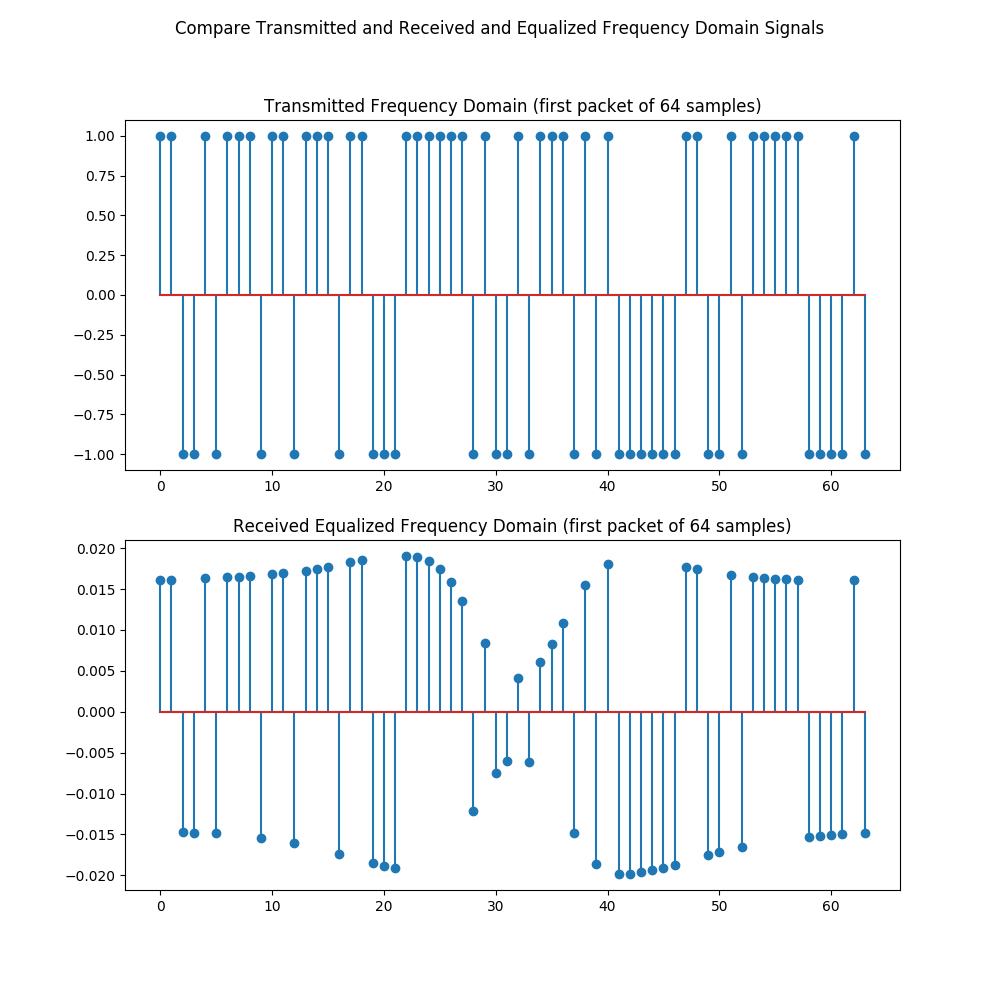
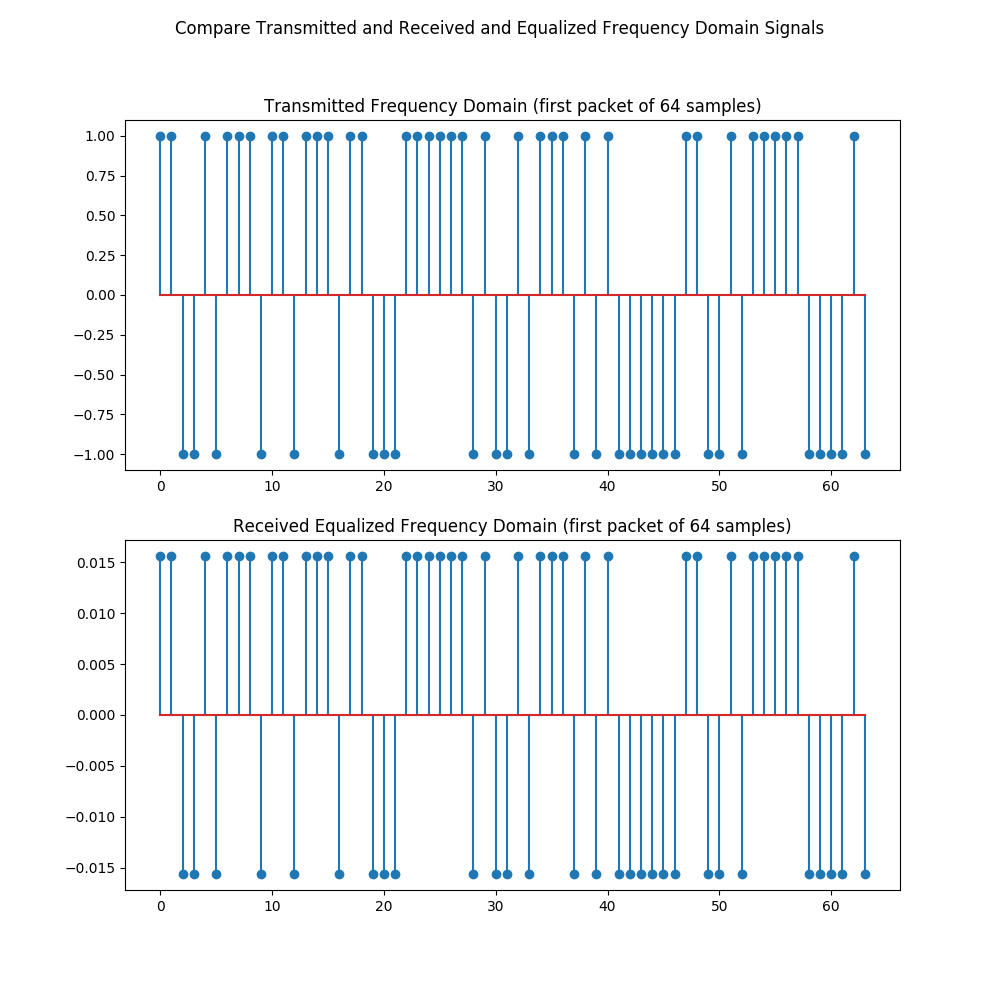
Make old parts of lab work with library modifications

diff --git a/ofdm_hardware_correct.py b/ofdm_hardware_correct.py
@@ -45,6 +45,8 @@ parser.add_argument('--tx_npz_path', type=str, default='tx_arrays.npz',
         + 'signal.')
 parser.add_argument('--make_plots', type=bool, default=False,
         help='Generate and display plots.')
+parser.add_argument('--qpsk', type=bool, default=False,
+        help='Decode a qpsk signal')
 
 FLAGS, unparsed = parser.parse_known_args()
 
@@ -97,10 +99,10 @@ header_time_rx = signal_time_rx[channel_est_start:channel_est_end]
 header_freq_rx = ofdm.convert_time_to_frequency(ofdm.NUM_SAMPLES_PER_PACKET, ofdm.NUM_SAMPLES_CYCLIC_PREFIX, header_time_rx)
 
 H = ofdm.estimate_channel(header_freq, header_freq_rx)
-header_eq = ofdm.equalize_frequency(H, header_freq_rx, est_phase=True)
+header_eq = ofdm.equalize_frequency(H, header_freq_rx, qpsk=FLAGS.qpsk, est_phase=True)
 
 # See what the bit-error rate is for the decoded known header.
-print((ofdm.decode_signal_freq(header_eq) == header_freq).mean())
+print((ofdm.decode_signal_freq(header_eq, qpsk=FLAGS.qpsk) == header_freq).mean())
 
 # Convert from time to frequency domain.
 data_time_rx = signal_time_rx[channel_est_end:]
@@ -123,7 +125,7 @@ if FLAGS.make_plots:
     plt.show()
 
 # Correct for the channel and the phase offset.
-data_freq_eq = ofdm.equalize_frequency(H, data_freq_rx, est_phase=False)
+data_freq_eq = ofdm.equalize_frequency(H, data_freq_rx, qpsk=FLAGS.qpsk, est_phase=False)
 
 if FLAGS.make_plots:
     tmp = data_freq_eq[12::ofdm.NUM_SAMPLES_PER_PACKET]
@@ -137,11 +139,11 @@ if FLAGS.make_plots:
     plt.show()
 
 # Decode the signal in the frequency domain.
-bits = ofdm.decode_signal_freq(data_freq_eq)
+bits = ofdm.decode_signal_freq(data_freq_eq, qpsk=FLAGS.qpsk)
 
 # Calculate the percent error rate.
 print(data_freq.shape)
-percent_error = ofdm.calculate_error(ofdm.decode_signal_freq(data_freq)[:4000], bits[:4000])
+percent_error = ofdm.calculate_error(ofdm.decode_signal_freq(data_freq, qpsk=FLAGS.qpsk)[:4000], bits[:4000])
 
 if FLAGS.make_plots:
     plt.plot(np.sign(data_freq) == bits, 'o')

diff --git a/ofdm_non_sync.py b/ofdm_non_sync.py
@@ -2,6 +2,10 @@
 not timimg synchronizezd. The Schmidl-Cox algortithm is used to perform
 timing synchronization.
 
+The performance of this script is dependent on f_delta.
+
+Author: Ariana Olson
+
 Usage:
     python3 ofdm_non_sync.py
 """
@@ -50,7 +54,7 @@ plt.plot(tmp)
 plt.show()
 
 # Find the start of the data using the LTS.
-signal_time_rx = ofdm.detect_start_lts(signal_time_rx, lts, signal_time_tx.shape[-1])
+_, signal_time_rx = ofdm.detect_start_lts(signal_time_rx, lts, signal_time_tx.shape[-1])
 
 # Estmate f_delta using the LTS.
 lts_rx = signal_time_rx[:lts.shape[-1]]
@@ -65,7 +69,8 @@ channel_est_start = lts.shape[-1]
 channel_est_end = channel_est_start + known_signal_time_tx.shape[-1]
 
 known_signal_time_rx = signal_time_rx[channel_est_start:channel_est_end]
-known_signal_freq_rx = ofdm.convert_time_to_frequency(ofdm.NUM_SAMPLES_PER_PACKET, ofdm.NUM_SAMPLES_CYCLIC_PREFIX, known_signal_time_rx)
+known_signal_freq_rx = ofdm.convert_time_to_frequency(ofdm.NUM_SAMPLES_PER_PACKET,
+        ofdm.NUM_SAMPLES_CYCLIC_PREFIX, known_signal_time_rx)
 
 H = ofdm.estimate_channel(known_signal_freq_tx, known_signal_freq_rx)
 known_signal_eq = ofdm.equalize_frequency(H, known_signal_freq_rx)
@@ -84,6 +89,6 @@ data_freq_eq = ofdm.equalize_frequency(H, data_freq_rx)
 bits = ofdm.decode_signal_freq(data_freq_eq)
 
 # Calculate the percent error rate.
-percent_error = ofdm.calculate_error(np.sign(data_freq_tx), bits)
+percent_error = ofdm.calculate_error(ofdm.decode_signal_freq(data_freq_tx), bits)
 
 print("The bit error rate is: {}%".format(percent_error))

diff --git a/utils/ofdm_util.py b/utils/ofdm_util.py
@@ -227,7 +227,7 @@ def equalize_frequency(channel_estimation, signal_freq, est_phase=False, qpsk=Fa
     for i in range(0, signal_freq.shape[-1], NUM_SAMPLES_PER_PACKET):
         signal_freq[i:i+NUM_SAMPLES_PER_PACKET] = signal_freq[i:i+NUM_SAMPLES_PER_PACKET] / channel_estimation
         if est_phase:
-            phase_est = estimate_phase(signal_freq[i:i+NUM_SAMPLES_PER_PACKET], qpsk=False)
+            phase_est = estimate_phase(signal_freq[i:i+NUM_SAMPLES_PER_PACKET], qpsk=qpsk)
             phase_estimates.append(phase_est)
             signal_freq[i:i+NUM_SAMPLES_PER_PACKET] /= np.exp(1j*phase_est)
     
@@ -237,17 +237,21 @@ def equalize_frequency(channel_estimation, signal_freq, est_phase=False, qpsk=Fa
         plt.show()
     return signal_freq
 
-def decode_signal_freq(signal_freq):
+def decode_signal_freq(signal_freq, qpsk=False):
     """Decode a frequency domain signal into a series of bits.
 
     Args:
         signal_freq (1D float32 ndarray): The bit sequence in the frequency
             domain.
+        qpsk (bool): Decode a complex signal. Defaults to False.
 
     Returns:
         bits (1D ndarray): The bit sequence decoded from signal_freq.
     """
-    bits = np.sign(signal_freq.real) + 1j * np.sign(signal_freq.imag)
+    if qpsk:
+        bits = np.sign(signal_freq.real) + 1j * np.sign(signal_freq.imag)
+    else:
+        bits = np.sign(signal_freq)
 
     return bits
 

diff --git a/ofdm_sync.py b/ofdm_sync.py
@@ -110,6 +110,7 @@ plt.show()
 bits = ofdm.decode_signal_freq(signal_freq_eq)
 
 # Calculate the percent error rate.
-percent_error = ofdm.calculate_error(signal_freq_tx, bits)
+percent_error = ofdm.calculate_error(ofdm.decode_signal_freq(signal_freq_tx), bits)
 
+print(np.sum(ofdm.decode_signal_freq(signal_freq_tx) == bits))
 print("The bit error rate is: {}%".format(percent_error))
